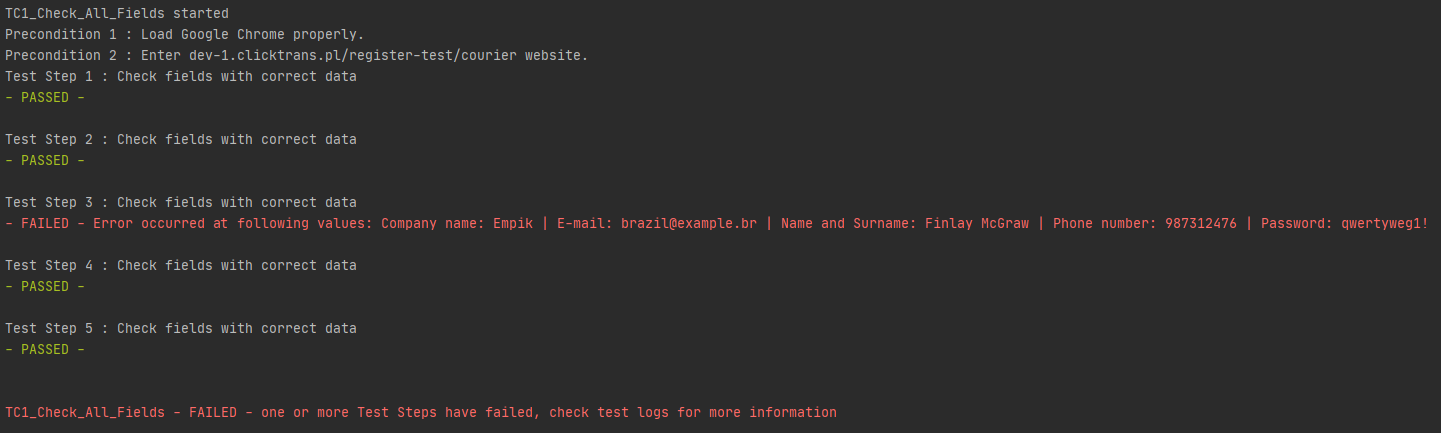
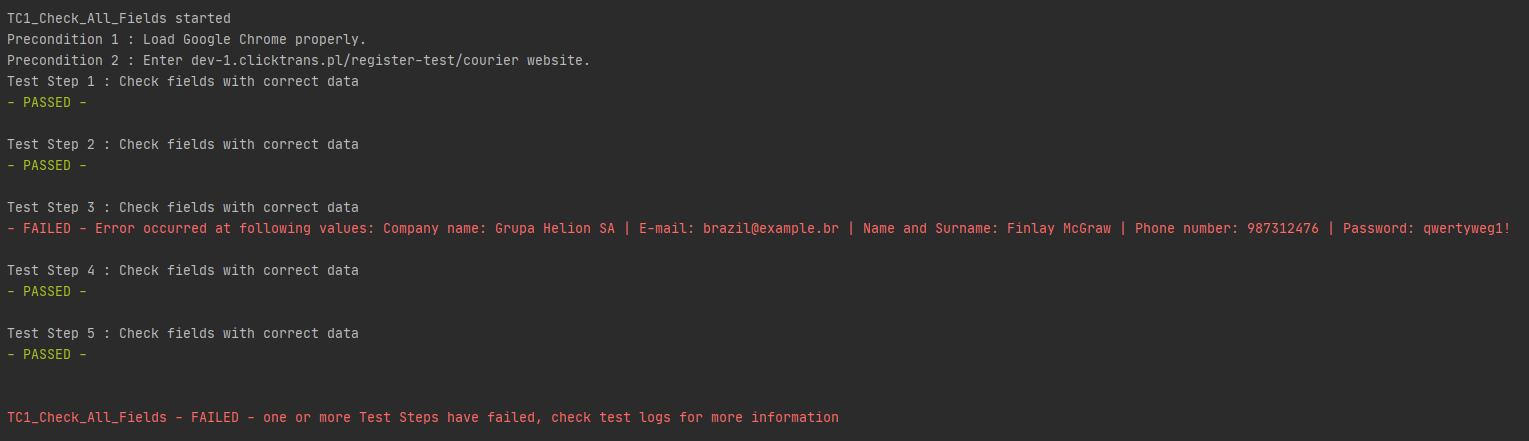
test data and jpgs changed

diff --git a/Libraries/values.py b/Libraries/values.py
@@ -1,5 +1,6 @@
 class positive_tests:
-    company_name = ['Kimpton Hotels & Restaurants', 'W. L. Gore & Associates', 'Empik', 'Helios S.A', "Jan Kowalski221"]
+    company_name = ['Kimpton Hotels & Restaurants', 'W. L. Gore & Associates', 'Grupa Helion SA', 'Helios S.A',
+                    "Jan Kowalski221"]
     e_mail = ['anyemail23@wp.pl', 'example@example.pl', 'brazil@example.br', 'mail@asd.us', 'vietnam@mail.vn']
     name_surname = ['Any Name', 'Alex Alex', 'Finlay McGraw', 'Jarret Roberts', 'Makena Woods']
     phone_number = ['435654234', '000000000', '987312476', '543765321', '765432358']
@@ -7,7 +8,8 @@ class positive_tests:
 
 
 class negative_tests_password:
-    company_name = ['Kimpton Hotels & Restaurants', 'W. L. Gore & Associates', 'Empik', 'Helios S.A', "Jan Kowalski221"]
+    company_name = ['Kimpton Hotels & Restaurants', 'W. L. Gore & Associates', 'Grupa Helion SA', 'Helios S.A',
+                    "Jan Kowalski221"]
     e_mail = ['anyemail23@wp.pl', 'example@example.pl', 'brazil@example.br', 'mail@asd.us', 'vietnam@mail.vn']
     name_surname = ['Any Name', 'Alex Alex', 'Finlay McGraw', 'Jarret Roberts', 'Makena Woods']
     phone_number = ['435654234', '000000000', '987312476', '543765321', '765432358']
@@ -15,8 +17,10 @@ class negative_tests_password:
 
 
 class negative_tests_password_companyname:
-    company_name = ['Kimpton Hotels & Restaurants', 'W. L. Gore & Associates', 'Empik', 'Helios S.A', "Jan Kowalski221"]
+    company_name = ['Kimpton Hotels & Restaurants', 'W. L. Gore & Associates', 'Grupa Helion SA', 'Helios S.A',
+                    "Jan Kowalski221"]
     e_mail = ['anyemail23@wp.pl', 'example@example.pl', 'example@example.pl', 'mail@asd.pl', 'example@gmail.com']
     name_surname = ['Any Name', 'Alex Alex', 'Finlay McGraw', 'Jarret Roberts', 'Makena Woods']
     phone_number = ['435654234', '000000000', '987312476', '543765321', '765432358']
-    password = ['Kimpton Hotels & Restaurants', 'W. L. Gore & Associates', 'Empik', 'Helios S.A', "Jan Kowalski221"]
+    password = ['Kimpton Hotels & Restaurants', 'W. L. Gore & Associates', 'Grupa Helion SA', 'Helios S.A',
+                "Jan Kowalski221"]

diff --git a/start_point.py b/start_point.py
@@ -9,7 +9,7 @@ from TestCases.TC4_Check_Password_Field_With_Company_Name import TC4_Check_Passw
 class StartPoint:
 
         TC1(CHROME_DRIVER_PATH, HTML).testcase()
-        TC2(CHROME_DRIVER_PATH, HTML).testcase()
-        TC3(CHROME_DRIVER_PATH, HTML).testcase()
-        TC4(CHROME_DRIVER_PATH, HTML).testcase()
+        #TC2(CHROME_DRIVER_PATH, HTML).testcase()
+        #TC3(CHROME_DRIVER_PATH, HTML).testcase()
+        #TC4(CHROME_DRIVER_PATH, HTML).testcase()
 
